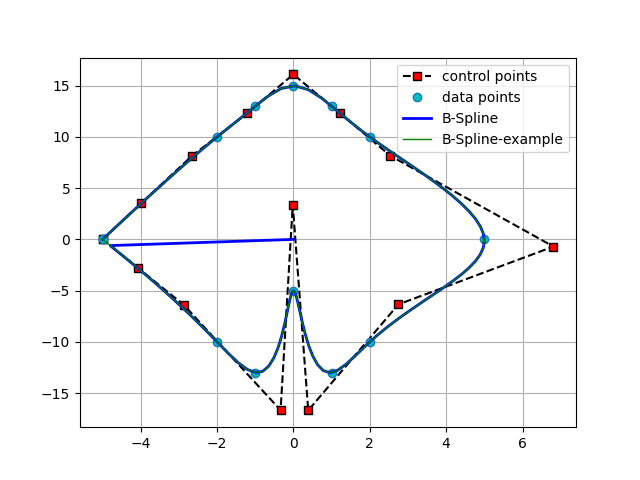
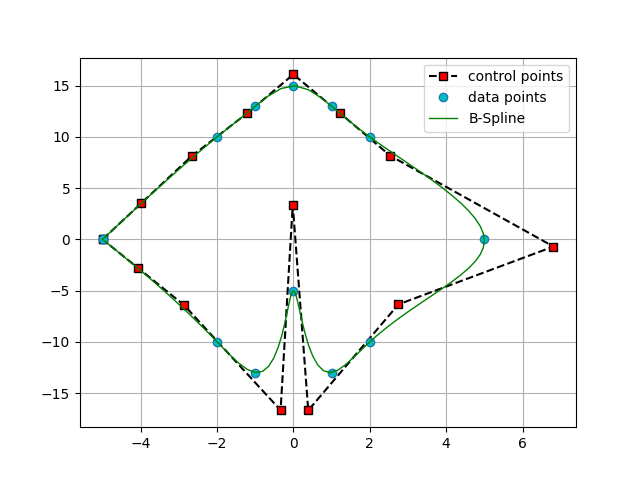
update README

diff --git a/plot.py b/plot.py
@@ -24,8 +24,8 @@ def plot():
 
     ax.plot(control_points_x, control_points_y, 'k--', marker='s',markerfacecolor='r', label='control points')
     ax.plot(data_points_x, data_points_y, ' ', marker='o', markerfacecolor='c', label='data points')
-    ax.plot(x, y, 'b-', lw=2, label='B-Spline')
-    ax.plot(spl_x(xx), spl_y(xx), 'g-', lw=1, label='B-Spline-example')
+    #ax.plot(x, y, 'b-', lw=2, label='B-Spline')
+    ax.plot(spl_x(xx), spl_y(xx), 'g-', lw=1, label='B-Spline')
     ax.grid(True)
     ax.legend(loc='best')
     plt.savefig(os.path.join(RESULT_PATH, OUT_FILENAME[0:-4]+'png'))

diff --git a/config.py b/config.py
@@ -6,5 +6,5 @@ DATA_PATH = os.path.join(BASE_PATH, 'data')
 RESULT_PATH = os.path.join(BASE_PATH, 'results')
 SRC_PATH = os.path.join(BASE_PATH, 'src')
 
-IN_FILENAME = 'eg2.txt'
-OUT_FILENAME = 'eg2out.txt'
+IN_FILENAME = 'eg1.txt'
+OUT_FILENAME = 'eg1out.txt'

diff --git a/README.md b/README.md
@@ -3,9 +3,10 @@
 This repo implements cubic B-spline interpolation with Python from scratch. If you are not familiar with B-Spline, you can click [here](https://web.mit.edu/hyperbook/Patrikalakis-Maekawa-Cho/node17.html) to quickly grasp the knowledge.
 
 ### Requirements
-The only requrired package is Numpy for matrix operation.
+The only two requrired packages are Numpy for matrix operation and matplotlib for curve visualization.
 
-* Numpy 1.18.2
+* [Numpy 1.18.2](https://numpy.org/devdocs/release/1.18.0-notes.html)
+* [Matplotlib 3.2.1](https://matplotlib.org)
 
 # Implementation
 The input file is in the ```/data``` directory, which contains a set of 2D points like:
@@ -39,3 +40,13 @@ x1 y1
 where “3” represents the degree of the B-spline curve, “cnt_num” is the number of the control points, “u0, u1, …” are the knot sequence of the curve, “x0 y0” are the x- and y-coordinates of the first control point, “x1 y1” are the x- and y-coordinates of the second control point, and so on.
 
 # Visualization
+To plot the interpolating curve, choose the output filename in ```config.py``` and run 
+the following command in the terminal:
+```angular2
+python plot.py 
+```
+The interpolating curves of the two example data points
+are shown as follow.
+
+![result pic](./results/eg1outpng.png)
+![result pic](./results/eg2outpng.png)
